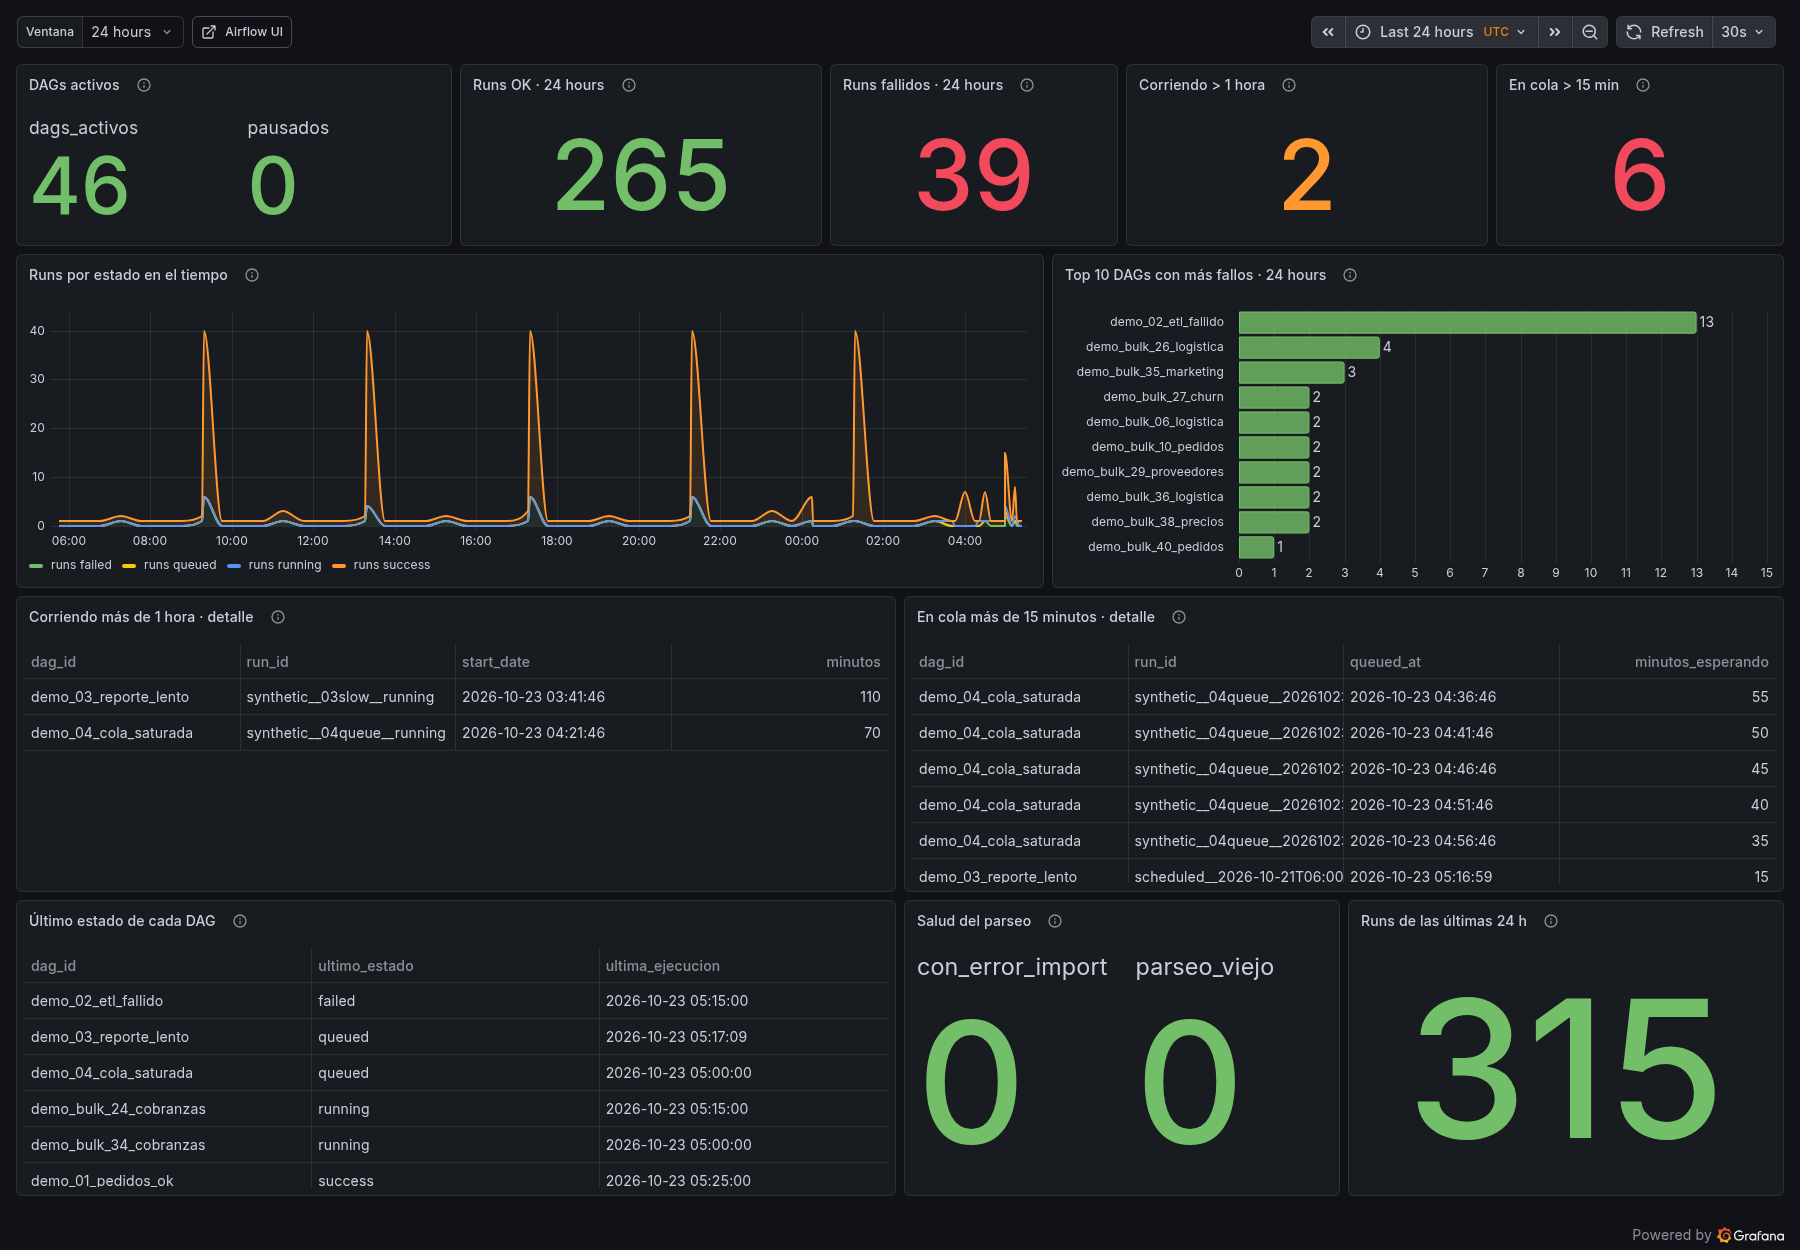
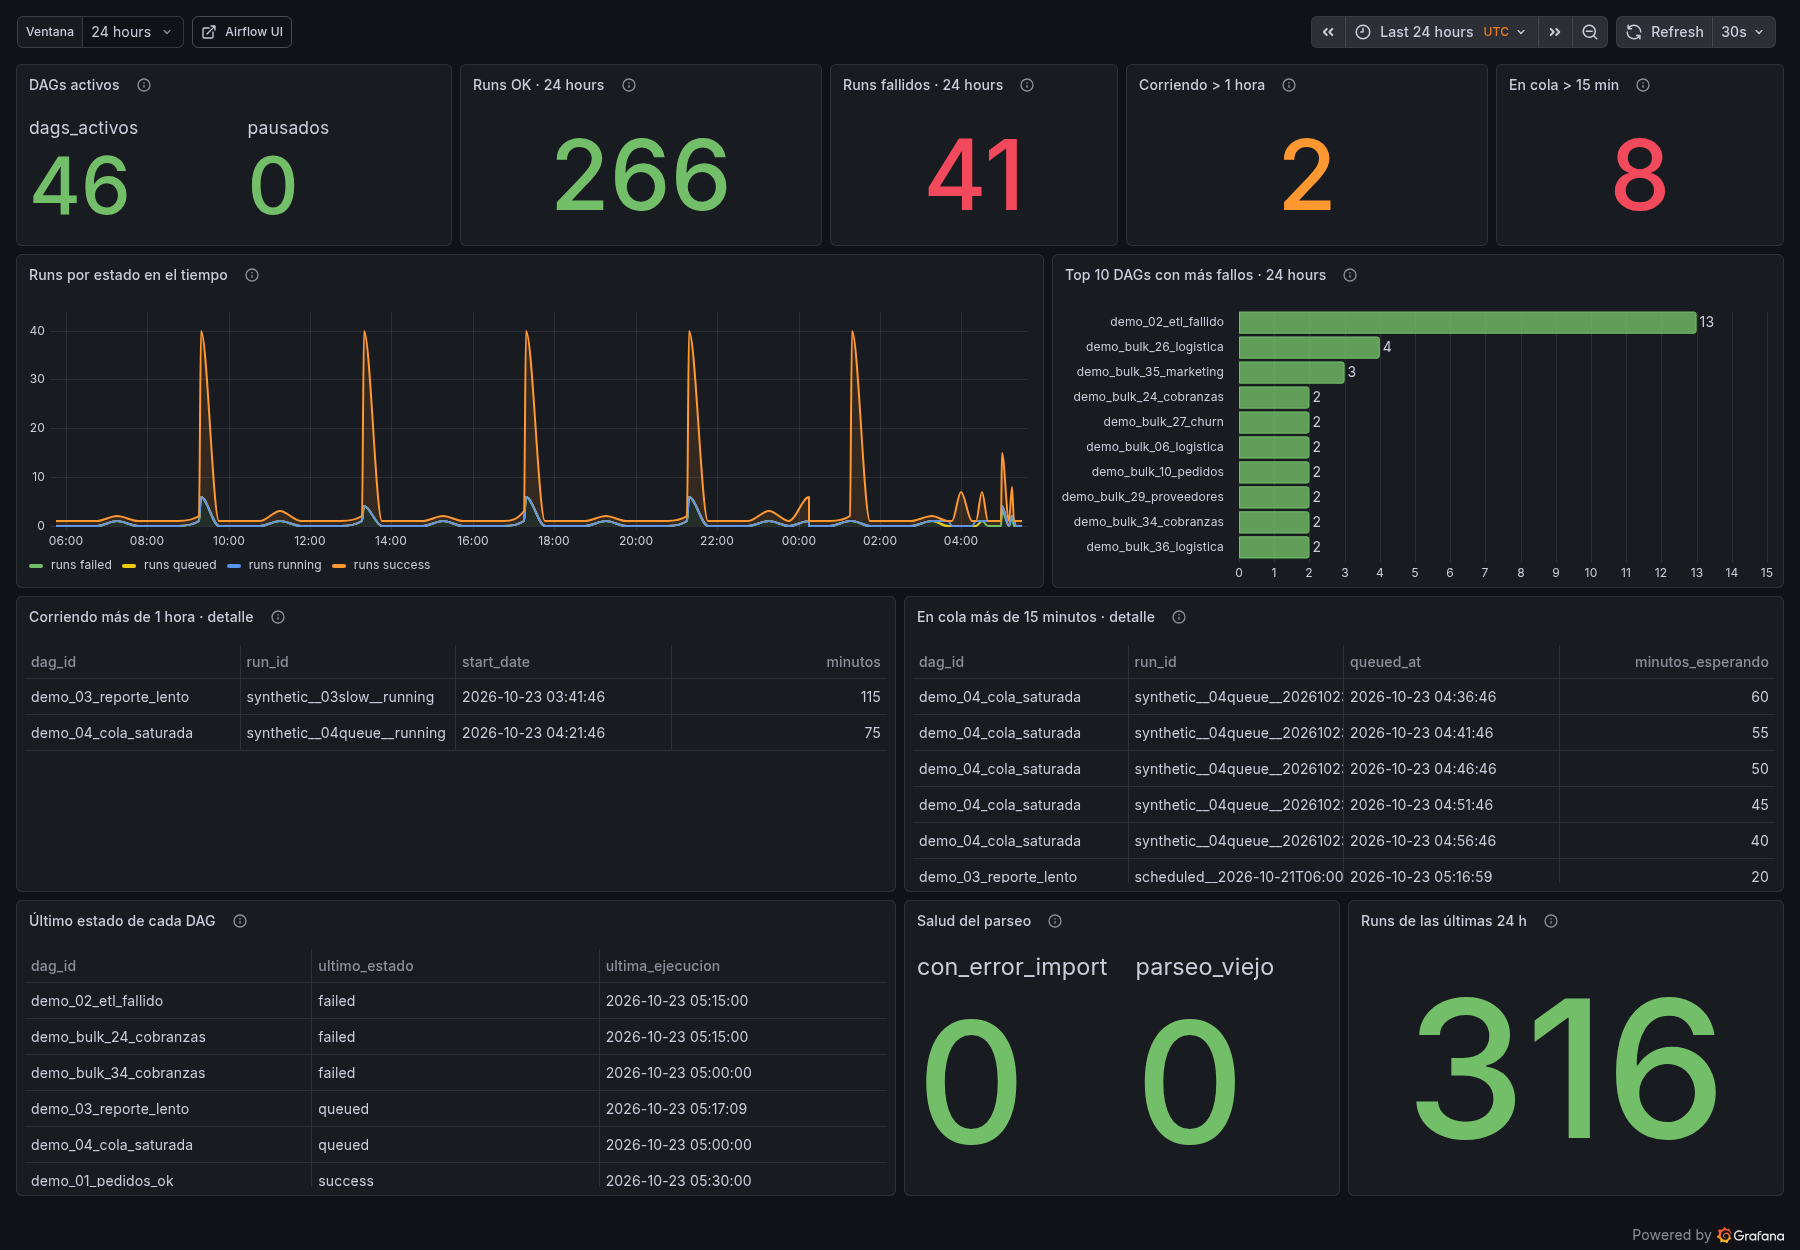
docs: cifras de la ultima verificacion y captura del dashboard

diff --git a/README.md b/README.md
@@ -6,10 +6,14 @@ tienen respuesta en el Airflow del cliente:
 | # | Pregunta | Panel | Valor en este laboratorio |
 |---|---|---|---|
 | 1 | ¿Cuántos DAGs hay en total? | `DAGs activos` | **46** |
-| 2 | ¿Cuántos se ejecutaron bien? | `Runs OK · 24 h` | **265** |
-| 3 | ¿Cuántos fallaron? | `Runs fallidos · 24 h` | **40** |
-| 4 | ¿Cuántos llevan corriendo más de 1 hora? | `Corriendo > 1 hora` | **2** (110 y 70 min) |
+| 2 | ¿Cuántos se ejecutaron bien? | `Runs OK · 24 h` | **266** |
+| 3 | ¿Cuántos fallaron? | `Runs fallidos · 24 h` | **41** |
+| 4 | ¿Cuántos llevan corriendo más de 1 hora? | `Corriendo > 1 hora` | **2** (115 y 75 min) |
 | 5 | ¿Cuántos están atascados en cola? | `En cola > 15 min` | **8** |
+
+> Cifras de la última verificación (23-oct-2026, 05:35 UTC). El laboratorio sigue vivo y los 46
+> DAGs generan ejecuciones, así que los conteos suben con el tiempo: eso es exactamente lo que
+> tiene que pasar.
 
 ![Dashboard de visibilidad de DAGs](docs/img/dashboard.png)
 
@@ -82,17 +86,17 @@ DATASOURCE  uid=airflow-pg  type=grafana-postgresql-datasource  db=airflow  user
             health: OK  Database Connection OK
 DASHBOARD   uid=airflow-visibilidad  paneles=12  título=Airflow 2.8.1 · Visibilidad de DAGs
 [ OK ]  1 DAGs activos                        filas=1   {"dags_activos": 46, "pausados": 0}
-[ OK ]  2 Runs OK · $ventana                  filas=1   {"ok": 265}
-[ OK ]  3 Runs fallidos · $ventana            filas=1   {"fallidos": 40}
+[ OK ]  2 Runs OK · $ventana                  filas=1   {"ok": 266}
+[ OK ]  3 Runs fallidos · $ventana            filas=1   {"fallidos": 41}
 [ OK ]  4 Corriendo > 1 hora                  filas=1   {"mas_de_1_hora": 2}
 [ OK ]  5 En cola > 15 min                    filas=1   {"en_cola_mas_15min": 8}
 [ OK ]  6 Runs por estado en el tiempo        filas=25
 [ OK ]  7 Top 10 DAGs con más fallos          filas=10
-[ OK ]  8 Corriendo más de 1 hora · detalle   filas=2   (110 y 70 minutos)
+[ OK ]  8 Corriendo más de 1 hora · detalle   filas=2   (115 y 75 minutos)
 [ OK ]  9 En cola más de 15 minutos · detalle filas=8
 [ OK ] 10 Último estado de cada DAG           filas=46
 [ OK ] 11 Salud del parseo                    filas=1   {"con_error_import": 0, "parseo_viejo": 0}
-[ OK ] 12 Runs de las últimas 24 h            filas=1   {"runs_24h": 315}
+[ OK ] 12 Runs de las últimas 24 h            filas=1   {"runs_24h": 316}
 ==============================================================================
 RESULTADO: 12 paneles verificados, 0 con error
 ```
